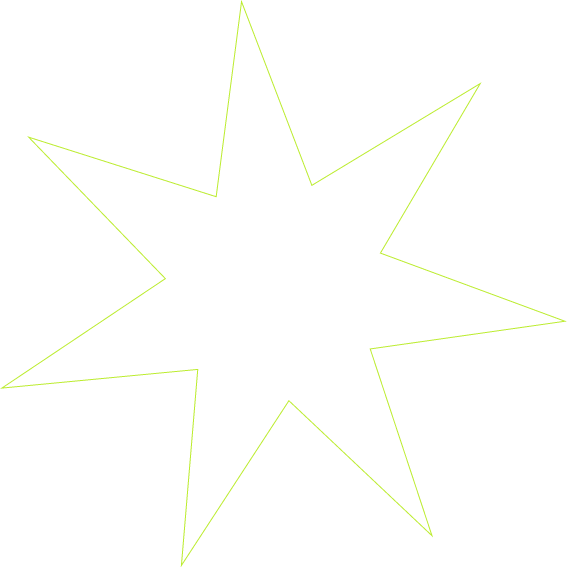
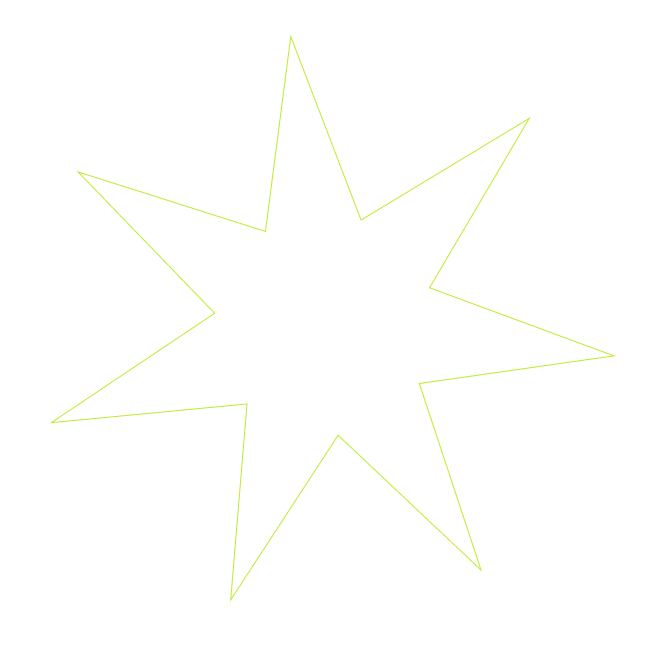
замечания по д.р. устранены

diff --git a/style.SCSS b/style.SCSS
@@ -14,22 +14,18 @@ body {
 
 .top {
     height: 710px;
-    background-color: rgb(225, 255, 143);    
-    z-index: 0;
+    background: rgb(225, 255, 143);
+    background-image: url(./img/Star2.png), url(./img/Star3.png), url(./img/Star4.png), url(./img/Star5.png), url(./img/Star_big.png);
+    background-position: 63px 94px, 156px 69px, 1013px 568px, 948px 538px, 854px -333px;
+    background-repeat: no-repeat;
+    
+   
+   
+    // &__container {
+    //     z-index: 2;
+    // }
 
-    &__container {
-        z-index: 2;
-    }
-
-    &__img {
-        position: absolute;
-        background-repeat: no-repeat;
-        background-size: auto;
-        left: -100px;
-        top: -300px;
-        height: auto;
-        z-index: 1;
-    }  
+     
 
     &-mob {
         display: none;
@@ -147,8 +143,11 @@ body {
 }
 
 .games {
-    background-color:rgb(32, 32, 39);
-    height: 1470px;
+    background: #202027;
+    background-image: url(./img/Star11.png), url(./img/Star12.png), url(./img/Star1.png);
+    background-position: 25px 770px, 40px 822px, 933px 77px;
+    background-repeat: no-repeat;
+    padding-bottom: 50px;
     
 
     &__container {
@@ -164,14 +163,14 @@ body {
         top: 830px;
     }
 
-    &__img1 {
-        position: absolute;
-        z-index: 1; /* Отправляет изображение на задний план */
-        right: -240px;
-        bottom: 1150px;
-        width: 585px;
-        height: auto;
-    }
+    // &__img1 {
+    //     position: absolute;
+    //     z-index: 1; /* Отправляет изображение на задний план */
+    //     right: -240px;
+    //     bottom: 1150px;
+    //     width: 585px;
+    //     height: auto;
+    // }
 
     &__title {
         color: rgb(255, 255, 255);
@@ -196,7 +195,7 @@ body {
         display: flex;
         gap: 32px;
         flex-wrap: wrap;
-        height: 1470px;
+        // height: 1470px;
         position: relative;
          
     }
@@ -206,7 +205,7 @@ body {
         gap: 32px;
         flex-wrap: wrap;
         width: 378px;
-        height: 1056px;
+        // height: 1056px;
         z-index: 2;      
     }
 }
@@ -248,33 +247,36 @@ body {
 }
 
 .games-mini {
-    height: 3500px;
-    background-color:rgb(32, 32, 39);
-    z-index: 0;
+    background: #202027;
+    background-image: url(./img/Star6_.png), url(./img/Star7_.png), url(./img/Star8_.png), url(./img/Star10_.png);
+    background-repeat: no-repeat;
+    background-position: 1320px 126px, 1277px 93px, 1319px 3366px, 1249px 3414px;
+    padding-bottom: 144px;
     
 
-    &__container {
-        position: relative;  
-    }
+    // &__container {
+    //     position: relative;  
+    // }
 
-    &__img1 {
-        position: absolute;
-        z-index: 1; /* Отправляет изображение на задний план */
-        left: 1200px;
-        top: 100px;
-    }
+    // &__img1 {
+    //     position: absolute;
+    //     z-index: 1; /* Отправляет изображение на задний план */
+    //     left: 1200px;
+    //     top: 100px;
+    // }
 
-    &__img2 {
-        position: absolute;
-        z-index: 1; /* Отправляет изображение на задний план */
-        right: -100px;
-        top: 3330px;
-    }
+    // &__img2 {
+    //     position: absolute;
+    //     z-index: 1; /* Отправляет изображение на задний план */
+    //     right: -100px;
+    //     top: 3330px;
+    // }
 
     &__cards {
-        width: 1200px;
-        height: 500px;
+        // width: 1200px;
+        // height: 500px;
         display: flex;
+        flex-direction: column;
         gap: 32px;
         flex-wrap: wrap;
     }
@@ -283,10 +285,10 @@ body {
 .game-mini-card {
     border-radius: 30px;
     background-color: rgb(255, 255, 255);
-    max-width: 1200px;
+    // max-width: 1200px;
     height: 500px;
     display: flex;
-    flex-direction: row-reverse;
+    flex-direction: row-reverse;    
 
     &__img {
         max-width: 100%;
@@ -343,7 +345,7 @@ body {
 .game-mini-card-contrary {
     border-radius: 30px;
     background-color: rgb(255, 255, 255);
-    width: 1200px;
+    // width: 1200px;
     height: 500px;
     display: flex;        
 }
@@ -351,7 +353,7 @@ body {
 .game-mini-card-contrary1 {
     border-radius: 30px;
     background-color: rgb(255, 255, 255);
-    width: 1200px;
+    // width: 1200px;
     height: 500px;
     display: flex;        
 }

diff --git a/style.css b/style.css
@@ -15,20 +15,10 @@ body {
 
 .top {
   height: 710px;
-  background-color: rgb(225, 255, 143);
-  z-index: 0;
-}
-.top__container {
-  z-index: 2;
-}
-.top__img {
-  position: absolute;
+  background: rgb(225, 255, 143);
+  background-image: url(./img/Star2.png), url(./img/Star3.png), url(./img/Star4.png), url(./img/Star5.png), url(./img/Star_big.png);
+  background-position: 63px 94px, 156px 69px, 1013px 568px, 948px 538px, 854px -333px;
   background-repeat: no-repeat;
-  background-size: auto;
-  left: -100px;
-  top: -300px;
-  height: auto;
-  z-index: 1;
 }
 .top-mob {
   display: none;
@@ -132,8 +122,11 @@ body {
 }
 
 .games {
-  background-color: rgb(32, 32, 39);
-  height: 1470px;
+  background: #202027;
+  background-image: url(./img/Star11.png), url(./img/Star12.png), url(./img/Star1.png);
+  background-position: 25px 770px, 40px 822px, 933px 77px;
+  background-repeat: no-repeat;
+  padding-bottom: 50px;
 }
 .games__container {
   position: relative;
@@ -144,14 +137,6 @@ body {
   z-index: 1; /* Отправляет изображение на задний план */
   right: 1300px;
   top: 830px;
-}
-.games__img1 {
-  position: absolute;
-  z-index: 1; /* Отправляет изображение на задний план */
-  right: -240px;
-  bottom: 1150px;
-  width: 585px;
-  height: auto;
 }
 .games__title {
   color: rgb(255, 255, 255);
@@ -174,7 +159,6 @@ body {
   display: flex;
   gap: 32px;
   flex-wrap: wrap;
-  height: 1470px;
   position: relative;
 }
 .games__row {
@@ -182,7 +166,6 @@ body {
   gap: 32px;
   flex-wrap: wrap;
   width: 378px;
-  height: 1056px;
   z-index: 2;
 }
 
@@ -218,29 +201,15 @@ body {
 }
 
 .games-mini {
-  height: 3500px;
-  background-color: rgb(32, 32, 39);
-  z-index: 0;
-}
-.games-mini__container {
-  position: relative;
-}
-.games-mini__img1 {
-  position: absolute;
-  z-index: 1; /* Отправляет изображение на задний план */
-  left: 1200px;
-  top: 100px;
-}
-.games-mini__img2 {
-  position: absolute;
-  z-index: 1; /* Отправляет изображение на задний план */
-  right: -100px;
-  top: 3330px;
+  background: #202027;
+  background-image: url(./img/Star6_.png), url(./img/Star7_.png), url(./img/Star8_.png), url(./img/Star10_.png);
+  background-repeat: no-repeat;
+  background-position: 1320px 126px, 1277px 93px, 1319px 3366px, 1249px 3414px;
+  padding-bottom: 144px;
 }
 .games-mini__cards {
-  width: 1200px;
-  height: 500px;
   display: flex;
+  flex-direction: column;
   gap: 32px;
   flex-wrap: wrap;
 }
@@ -248,7 +217,6 @@ body {
 .game-mini-card {
   border-radius: 30px;
   background-color: rgb(255, 255, 255);
-  max-width: 1200px;
   height: 500px;
   display: flex;
   flex-direction: row-reverse;
@@ -301,7 +269,6 @@ body {
 .game-mini-card-contrary {
   border-radius: 30px;
   background-color: rgb(255, 255, 255);
-  width: 1200px;
   height: 500px;
   display: flex;
 }
@@ -309,7 +276,6 @@ body {
 .game-mini-card-contrary1 {
   border-radius: 30px;
   background-color: rgb(255, 255, 255);
-  width: 1200px;
   height: 500px;
   display: flex;
 }

diff --git a/index.html b/index.html
@@ -12,7 +12,7 @@
 <body>
     <div class="top center">             
         <section class="top__content">
-            <img class="top__img" src="img/stars-header.png" alt="stars">
+            <!-- <img class="top__img" src="img/stars-header.png" alt="stars"> -->
              <!-- <div class="top-mob">
               <img class="top-mob__img" src="img/stars-big_mobil.png" alt="stars">  
             </div>            -->
@@ -74,13 +74,13 @@
 
     <section class="games center" >
         <div class="games__container">
-            <img class="games__img" src="img/stars-min.png" alt="stars-min">
+            <!-- <img class="games__img" src="img/stars-min.png" alt="stars-min"> -->
             <h2 class="games__title"  id="games">Об играх</h2>
             <p class="games__text">В моей коллекции представлено 6 игр на разные темы.<br>Игры несложные — в них может поиграть каждый.<br>Все игры доступны для пользования.</p>  
         </div>
         
         <div class="games__cards">
-            <img class="games__img1" src="img/Star1.png" alt="Star">
+            <!-- <img class="games__img1" src="img/Star1.png" alt="Star"> -->
             <div class="games__row">
                 <a class="game-card" href="#game1">
                     <img src="img/card1.svg" alt="guess the number">
@@ -134,8 +134,8 @@
 
     <section class="games-mini center">
         <div class="games-mini__container" >
-            <img class="games-mini__img1" src="img/stars-min.png" alt="stars-min">
-            <img class="games-mini__img2" src="img/min-stars.png" alt="stars-min">
+            <!-- <img class="games-mini__img1" src="img/stars-min.png" alt="stars-min">
+            <img class="games-mini__img2" src="img/min-stars.png" alt="stars-min"> -->
             <h2 class="games__title" id="games-mini">Мини-игры</h2>
         </div>
         <div class="games-mini__cards">
